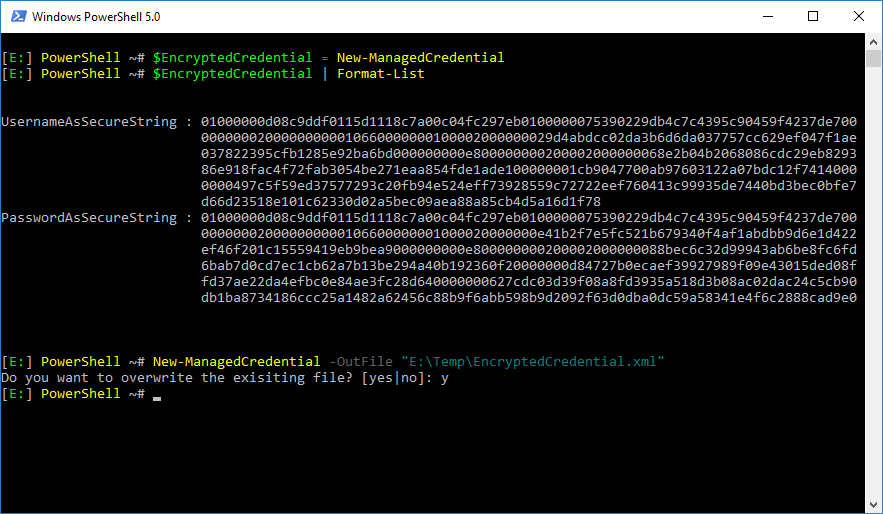
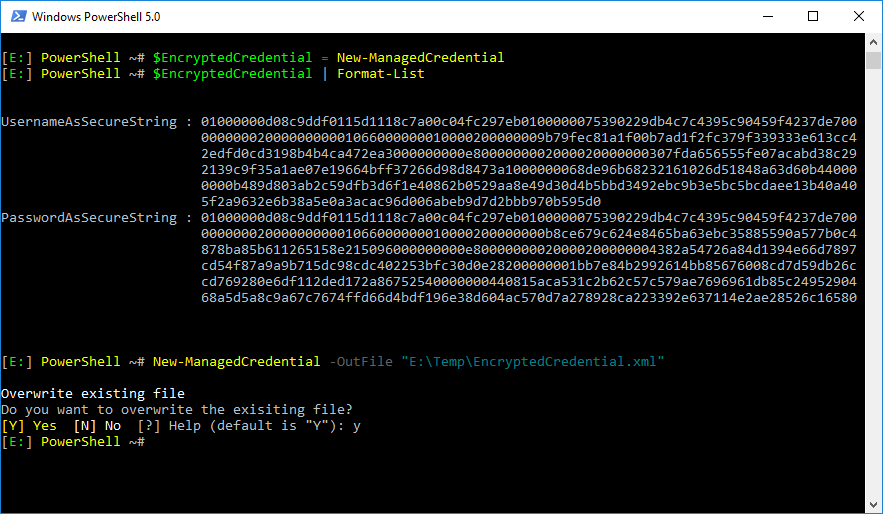
Code improved & fixes

Changed region(s): [[0.214, 0.4358, 0.9785, 0.5914], [0.214, 0.249, 0.9785, 0.4047], [0.0, 0.716, 0.4892, 0.8716]]

diff --git a/Documentation/Get-ManagedCredential.README.md b/Documentation/Get-ManagedCredential.README.md
@@ -18,13 +18,13 @@ If user "A" encrypt the credentials on computer "A", user "B" cannot decrypt the
 ### Function
 
 ```powershell
-Get-ManagedCredential [[-EncryptedCredentials] <Object>] [[-FilePath] <String>] [[-PasswordAsPlainText]] [<CommonParameters>]
+Get-ManagedCredential [[-EncryptedCredential] <Object>] [[-FilePath] <String>] [[-AsPlainText]] [<CommonParameters>]
 ```
 
 ### Script
 
 ```powershell
-.\Get-ManagedCredential.ps1 [[-EncryptedCredentials] <Object>] [[-FilePath] <String>] [[-PasswordAsPlainText]] [<CommonParameters>]
+.\Get-ManagedCredential.ps1 [[-EncryptedCredential] <Object>] [[-FilePath] <String>] [[-AsPlainText]] [<CommonParameters>]
 ```
 
 ## Example
@@ -32,7 +32,7 @@ Get-ManagedCredential [[-EncryptedCredentials] <Object>] [[-FilePath] <String>] 
 ### Function
 
 ```powershell
-PS> Get-ManagedCredential -EncryptedCredentials $EncryptedCredentials
+PS> Get-ManagedCredential -EncryptedCredential $EncryptedCredentials
 
 UserName                Password
 --------                --------
@@ -42,7 +42,7 @@ Admin                   System.Security.SecureString
 ### Script
 
 ```powershell
-PS> .\Get-ManagerdCredential.ps1 -FilePath E:\Temp\EncryptedCredentials.xml -PasswordAsPlainText
+PS> .\Get-ManagerdCredential.ps1 -FilePath E:\Temp\EncryptedCredentials.xml -AsPlainText
 
 Username                Password
 --------                --------

diff --git a/Documentation/New-ManagedCredential.README.md b/Documentation/New-ManagedCredential.README.md
@@ -35,9 +35,9 @@ New-ManagedCredential [[-OutFile] <String>] [[-Credentials] <PSCredential>] [<Co
 ### Function
 
 ```powershell
-PS> $EncryptedCredentials = New-ManagedCredential
+PS> $EncryptedCredential = New-ManagedCredential
 
-PS> $EncryptedCredentials
+PS> $EncryptedCredential
 
 UsernameAsSecureString : c04fc297eb01000000edade3a984d5ca...
 PasswordAsSecureString : 984d5ca4aa6c39de63b9627730000c22...
